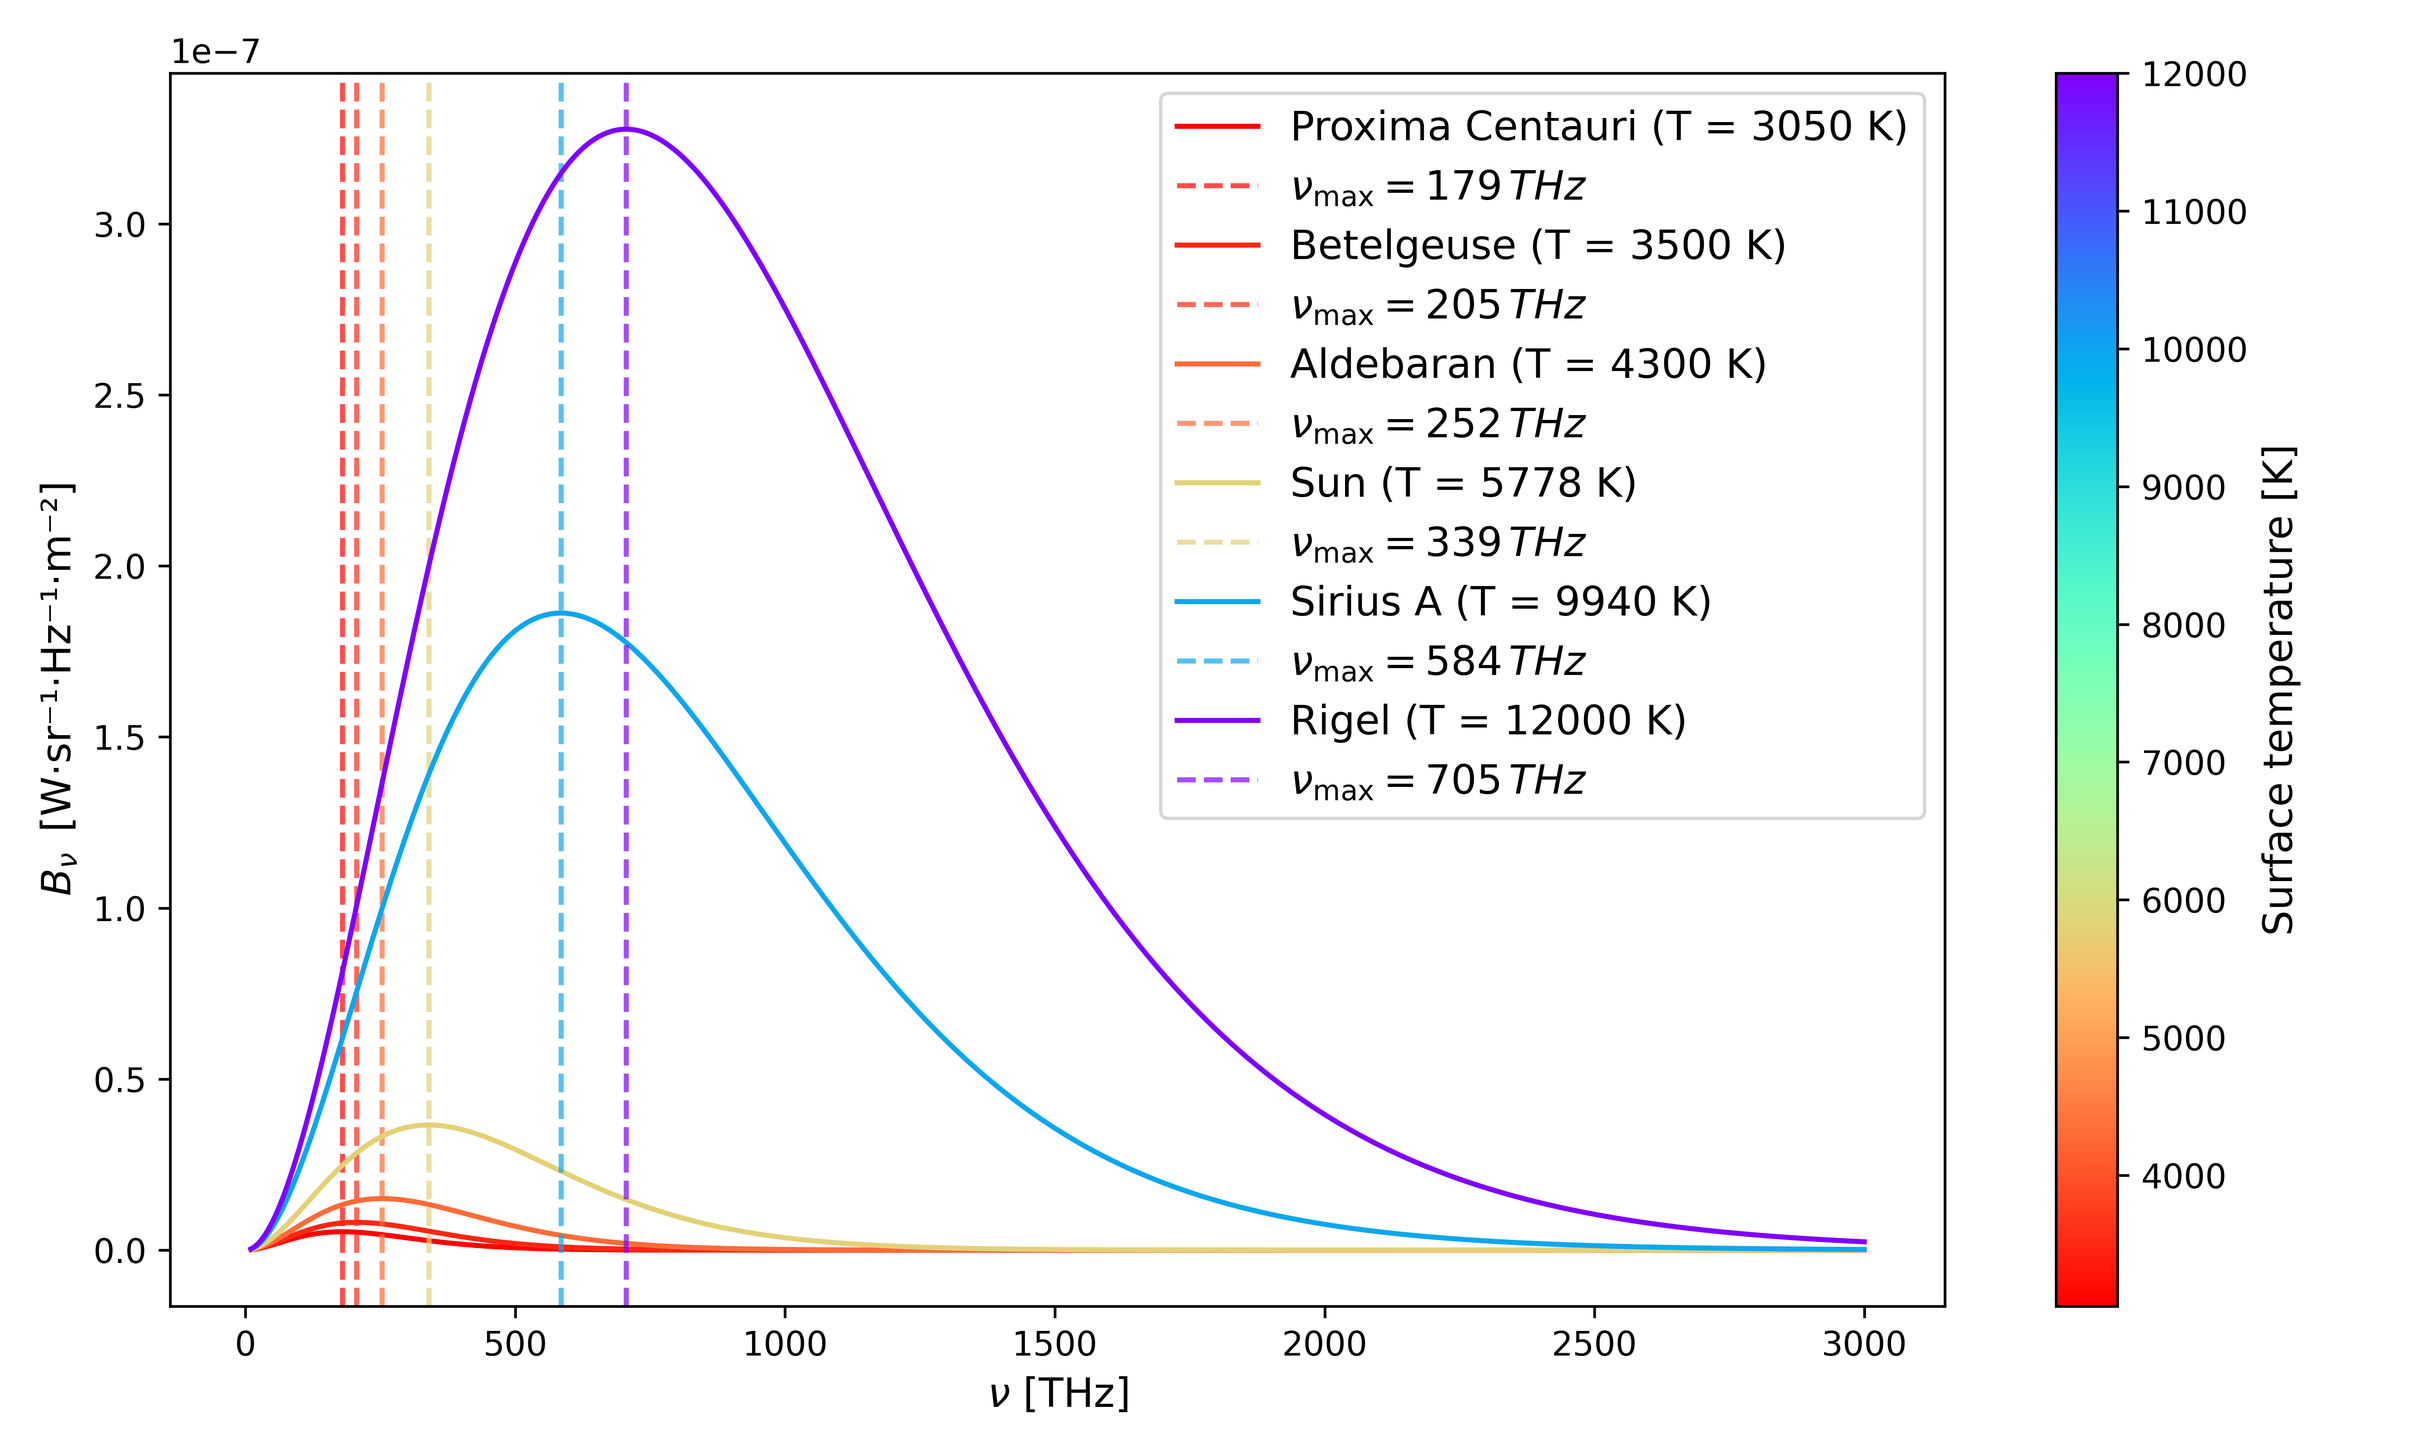
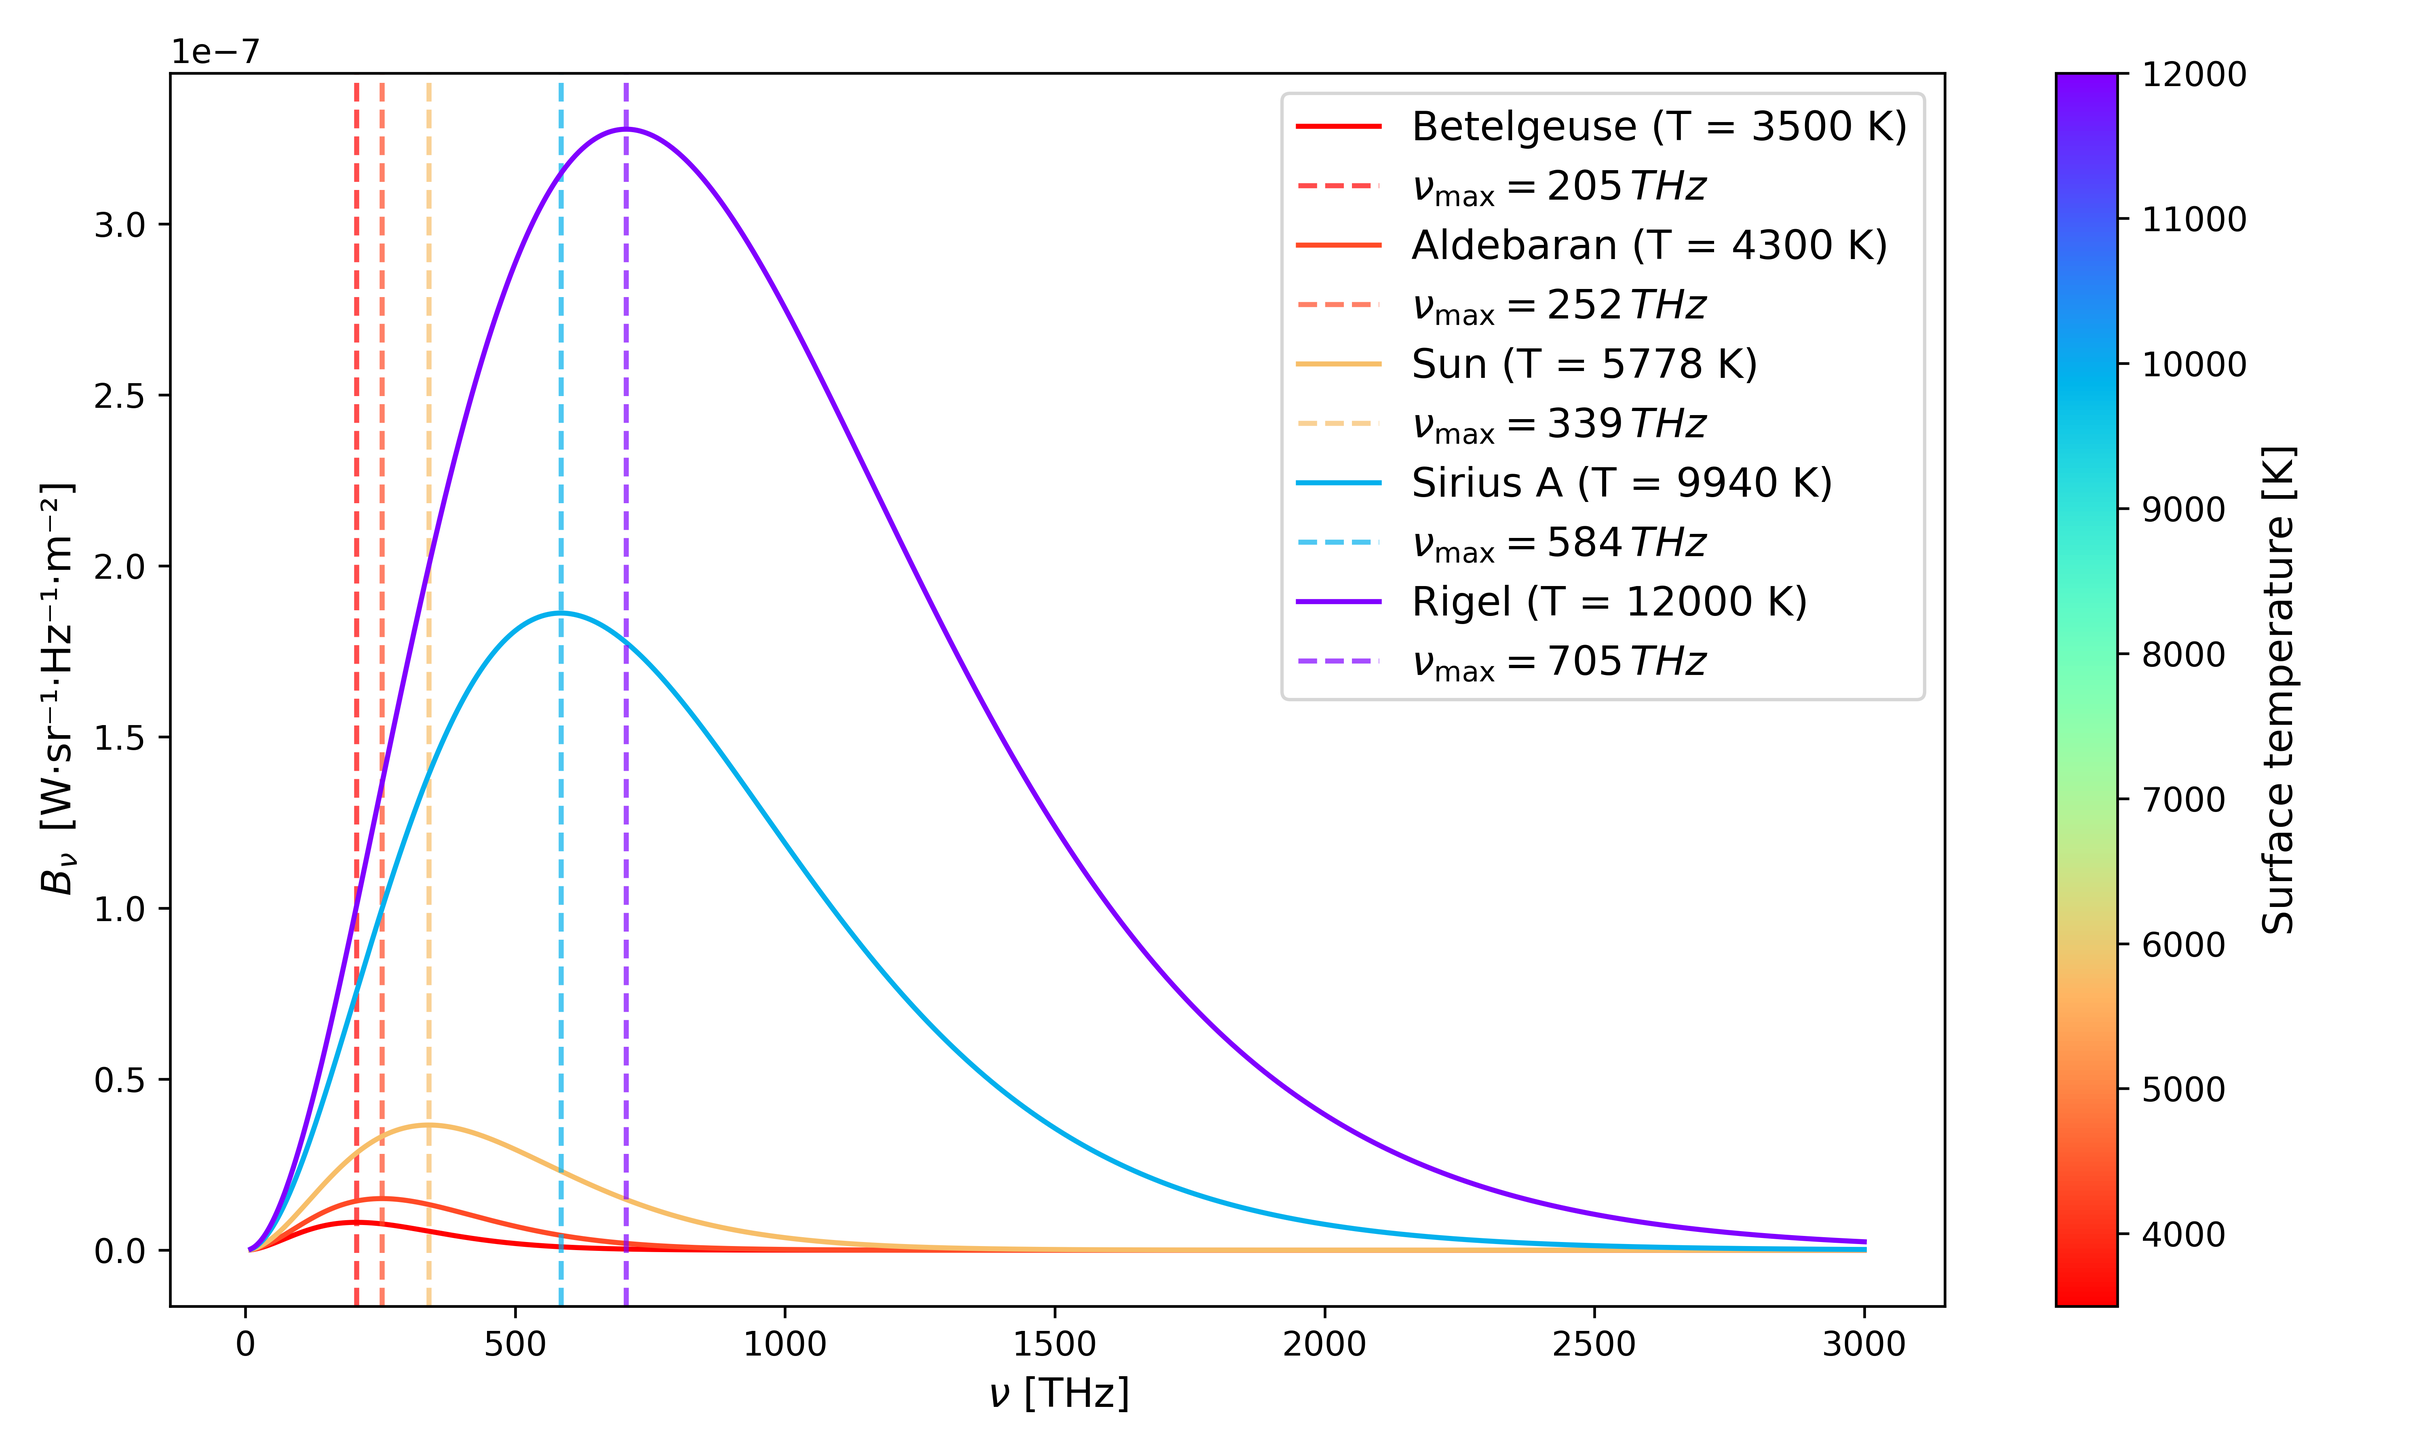
Update of star-obs : magnitudes

diff --git a/_cosmo/cosmo/codes/blackbody.py b/_cosmo/cosmo/codes/blackbody.py
@@ -30,7 +30,6 @@ nu = np.linspace(1e13, 3e15, 1000)
 
 # list of surface temperatures for some stars:
 star_Ts = {
-    "Proxima Centauri": 3050,
     "Betelgeuse": 3500,
     "Aldebaran": 4300,
     "Sun": 5778,

diff --git a/_cosmo/cosmo/astro-obs.md b/_cosmo/cosmo/astro-obs.md
@@ -7,16 +7,17 @@ nav_order: 1
 
 # Observing the stars
 
-![image](../images/potw1631a.jpg){: width="80%"}
+![image](../images/stellarium.png){: width="100%"}
 
-*The NGC 4833 globular cluster as seen by Hubble. Credit: [ESA/Hubble and NASA](https://esahubble.org/images/potw1631a/)*
+*Winter night sky in Europe and its constellations simulated using the [Stellarium](https://stellarium.org) software 
+(To reproduce use the following coordinates: Earth (48.8582,2.3387), 2025-01-05 21:45:23 UTC+01:00).*
 
-Picture a clear night sky in the countryside. Stars appear as a myriad of shining points covering the whole sky. How could they be distinguished?
+Picture a clear night sky in the countryside, or even better, have a look outside at night! If you are located in the northern hemisphere in winter, you might be able to see a sky very similar to the one represented in the picture above, with some emblematic constellations as Orion, Canis Major, Gemini and Taurus. Stars appear as a myriad of shining points covering the whole sky. How could they be distinguished?
 Sure, they are not all located at the same point of the sky, but that does not tell us anything about their physical properties. What else?
 
-One obvious characteristic comes to mind: their brightness! Indeed, all the stars do not appear as bright. Now what can the brightness of a star teach us? If a star is very bright, it can be for two reasons: either it is intrinsically very bright, because it is big and/or powerful, or because it is very close to us. The brightness of stars thus contain entangled information about both their luminosity and their distance.
+One obvious characteristic comes to mind: their brightness! Indeed, all the stars do not appear as bright. For example, you might notice that Sirius appears as much brighter than all the other stars around. It is actually the brightest star visible from the Northern hemisphere!  Now what can the brightness of a star teach us? If a star is very bright, it can be for two reasons: either it is intrinsically very bright, because it is big and/or powerful, or because it is very close to us. The brightness of stars thus contain entangled information about both their luminosity and their distance.
 
-Another property distinguishes the stars: their color. Indeed, even if it's not always easy to see, stars do not have the same colors. With a careful eye, it is possible to note that some appear as red, some blue and some more yellow. Now what could this possibly tell us? It turns out that the color of a star is directly related to its temperature, as we will further discuss below.
+Another property distinguishes the stars: their color. Indeed, even if it's not always easy to see, stars do not have the same colors. With a careful eye, you will notice that Betelgeuse and Aldebaran are clearly red, while Rigel is light blue. Now how to quantify this color, and what could we possibly infer from it? It turns out that the color of a star is directly related to its temperature, as we will further discuss below.
 
 These two measurable characteristics of stars are fundamental, as temperature and brightness can be ultimately linked with two physical properties of a star: its mass and the stage of its evolution.
 
@@ -62,15 +63,15 @@ Writing $x=\frac{h\nu}{k_bT}$ and setting this equation to zero, one obtains
 
 $$ 3(e^{x}-1)-xe^x=0 $$
 
-This equation is tricky to solve and requires to use the involved concept of "Lambert's W-functions" noted $W_0(z)$ (for the principal mode).
-
+This equation is tricky to solve and requires to use the involved concept of "Lambert's W-functions" noted $W_0(z)$ (for the principal mode). For simplicity, we will admit that the $x$ solving this equation is given by
+ 
 $$\frac{h\nu_{\rm max}}{k_bT}=3+ W_0(-3e^{-3})$$
 
-Thankfully, this can be computed numerically using scipy's function "lambertw".
+Thankfully, this can be computed numerically using scipy's function "lambertw". This (check the joined python code) allows us to obtain the value of $b\simeq 0.0588$ THz.K$^{-1}$ for Wien's constant.
 
 </details>
 
-In the above figure, we have computed the blackbody spectrum of different iconic stars. You can easily spot some of these stars in the night sky, with the help of softwares as [Stellarium](https://stellarium.org). We can clearly see that, the hotter the star, the more energy it emits (i.e. the bigger the peak of the curve). Furthermore, the hotter the star, the more blue its spectra is i.e. the more it is shifted to the right in frequency space (remember that higher frequencies mean shorter wavelengths). This figure allow us to verify the validity of Wien's law. We also note that our Sun is an "average" star, which is not so bright compared to other bluer (and bigger) stars as Rigel.
+In the above figure, we have computed the blackbody spectrum of different iconic stars of the winter night sky.  We can clearly see that, the hotter the star, the more energy it emits (i.e. the bigger the peak of the curve). Furthermore, the hotter the star, the more blue its spectra is i.e. the more it is shifted to the right in frequency space (remember that higher frequencies mean shorter wavelengths). This figure allow us to verify the validity of Wien's law. We also note that our Sun is an "average" star, which is not so bright compared to other bluer (and bigger) stars as Rigel. We also find back the colors observable with the naked eye : red for Betelgeuse and Aldebaran and blue for Sirius and Rigel.
 
 From the blackbody law, we can also infer a link between the intrinsic luminosity of the star $L$ -- that is the total energy the star radiates in space per unit of time -- and its size (radius) $R$ and temperature $T$ as
 
@@ -101,9 +102,9 @@ $$\int \text{d}S = 4\pi R^2 $$
  
 The solid angle integral is 
 
-$$\int \cos(\theta)\text{d}\Omega = \int_0^{2\pi}\int_0^{\pi/2} \cos(\theta) \sin(\theta)\d\varphi \d \theta=\pi $$
+$$\int \cos(\theta)\text{d}\Omega = \int_0^{2\pi}\int_0^{\pi/2} \cos(\theta) \sin(\theta)\text{d}\varphi \text{d} \theta=\pi $$
 
-It takes this form with an additional $\cos(\theta)$ because of Lambert's cosine law for the blackbody emission, saying that the intensity is smaller when looking the surface at an angle. We integrate only over the half sphere as we are considering here the emission of an infinitesimal element of surface around itself.  
+It takes this form with an additional $\cos(\theta)$ because of Lambert's cosine law for the blackbody emission, saying that the intensity is smaller when looking the surface at an angle. We will have to admit this law here for simplicity. We integrate only over the half sphere as we are considering here the emission of an infinitesimal element of surface around itself.  
  
 Now we must compute the final (and hardest) integral
 
@@ -113,33 +114,89 @@ Posing $x=\frac{h\nu}{k_b T}$ and thus $\text{d}x=\frac{h}{k_b T}\text{d}\nu$, t
 
 $$ \int B_\nu(T)\text{d}\nu = \frac{2h}{c^2}\left(\frac{k_b T}{h}\right)^4\int_0^\infty \frac{x^3}{e^{x}-1} \text{d}x$$
 
-The integral is the Riemann zeta function and can be shown to be equal to $\frac{\pi^4}{15}$.
+The integral is the Riemann zeta function and can be shown to be equal to $\frac{\pi^4}{15}$. We will also admit this last result here.
+
+Combining the three integrals we finally obtain as desired 
+
+$$L =  \frac{2\pi^5k_B^4}{15h^3c^2} 4\pi R^2 T^4$$
 
 </details>
 
+## Distance and luminosity
+
+As we said above, a star is characterized by its intrinsic luminosity $L$, which is how much energy it is releasing into space per unit of time.
+
+$$ F = \frac{L}{4\pi d^2}$$
+
+You will recognize here the surface of a sphere $4\pi d^2$, which means that while the radiation of a star is emitted into space, the total energy emitted is diluted -- and equally distributed -- over a sphere of radius $d$ centered on the star.
+Hence, as stated earlier, the brightness of a star is indeed linked to its radius, its temperature as well as it's distance to us
+
+$$ F = \frac{4\pi R^2 \sigma T^4}{4\pi d^2} + C$$
+
+The distance $d$ here is called the 'luminosity distance'. It can be estimated using the *parallax* method. In practice this concept can not be used for objects too far from us. For distances on larger (cosmological) scales, have a look [here](../distances/).
+
 ## Brightness: Magnitudes
 
-The brightness of a star, as seen in the sky, is called its *apparent magnitude* $m$. It is defined as
+The brightness of a star, as seen in the sky, is quantified by its *apparent magnitude* $m$. $m$ is a unitless number defined as
 
-$$m = -2.5 \log\left(\frac{F}{F_0}\right)$$
+$$m = -2.5 \log_{10}\left(F\right) + m_0$$
 
-where $F$ is the received flux of the star.
+where $F$ is the received flux of the star that is its luminosity as measured on Earth. $m_0$ is the arbitrary magnitude $0$ which defines the origin of the magnitude system.
+The use of a logarithm function here is to match the sensitivity of the human eye.
+The brighter the star, the more negative will be $m$.
 
-*absolute magnitude* $M$
+The *absolute magnitude* $M$ is its apparent magnitude observed at a distance of 10 parsecs, that is
+
+$$M = -2.5 \log_{10}\left(\frac{L}{4\pi (10 \text{ pc})^2}\right) + m_0$$
+
+In the table below, you can find the values of $m$ and $M$ for our iconic stars:
+
+| Stars | apparent magnitude $m$ | absolute magnitude $M$|
+|----------|:-------------:|------:|
+| Sun |  −27 | 4,83 |
+| Sirius |    −1   |   1,43 |
+| Aldebaran | +0,87  | -0,641|
+| Rigel | 0,12 | -7,84
+| Betelgeuse | 0,58 | -5,85 |
+| Naked eye limit | 6 |  |
+| Hubble telescope limit | 31.5 |  |
+
+We see that the Sun, which is obviously the brightest star visible from Earth (during the day!!!), has a greatly negative magnitude of -27. However, its absolute magnitude is of 4.83, which is rather high, making it the least "absolutely" bright star of the table!
+
+It can also be useful to define the distance modulus, which is the difference between the absolute and apparent magnitude:
 
 $$ \mu = M-m$$
 
-## Infering the distances
+It is a useful quantity as it can be related to the distance as
 
-A star is characterized by its intrinsic luminosity $L$, which is how much energy it is releasing into space per unit of time.
+$$\mu = 5\log_{10}(d/\text{pc}) - 5$$
 
-$$ L_d = \frac{L}{4\pi d^2}$$
+**Exercice: proove this!**
+<details>
+  <summary>Solution</summary>
 
-Hence, as stated earlier, the brightness of a star is indeed linked to its radius, its temperature as well as it's distance to us
+Remember, as always, the usual log properties: $\log_{10}(a^b)=b\log_{10}(a)$, $\log_{10}(a\times b)=\log_{10}(a)+\log_{10}(b)$ and $\log_{10}(a/b)=\log_{10}(a)-\log_{10}(b)$. Note also that $\log_{10}(10)=1$.
 
-$$ L_d = \frac{4\pi R^2 \sigma T^4}{4\pi d^2} + C$$
+From these properties:
+$$ \mu = M-m $$
+$$ = -2.5 \log_{10}\left(\frac{L}{4\pi d^2}\right) - 2.5 \log_{10}\left(\frac{L}{4\pi (10 \text{ pc})^2}\right)$$
+$$= -2.5 \log_{10}\left(\frac{(10 \text{ pc})^2}{d^2}\right) $$
+$$= -5 \log_{10}\left(\frac{(10 \text{ pc})}{d}\right) $$
+$$= 5 \log_{10}\left(\frac{d}{(10 \text{ pc})}\right) $$
+$$5\left( \log_{10}\left(d\right)-\log_{10}\left(10\right) \right) $$
+$$5\log_{10}\left(d\right)-5$$
 
-For distances on larger (cosmological) scales, have a look [here](../distances/).
+</details>
+
+## Color: B-V
+
+Now, trickier question: how to quantify the observed color of a star?
+
+The flux $F$ is dependent on frequency, such that $F=\int_{0}^\infty F_\nu \text{d}\nu$.
+
+The $B-V$ magnitude.
+
+$$m_B - m_V $$
 
 
 ## The Hertzprung-Russel diagramms

diff --git a/_cosmo/cosmo/stars-form.md b/_cosmo/cosmo/stars-form.md
@@ -7,8 +7,10 @@ nav_order: 1
 
 # The birth of stars 
 
-
 By trying to answer the vast question "what is a star?", we will apply most of the things we have learn in our physics lectures in an exciting context. We will hence discover one of the multiple reasons why astrophysics is so exciting : it involves many different branches of physics and put them in a cosmic perspective! If you don't master yet all of the concepts here, but are excited about astrophysics, you can still try to follow these notes. Hopefully, it should give you motivation to dig deeper the other lectures. 
+
+
+There is much more in the sky than what your eyes can see! Have a look for exemple [here](https://volskiy.smugmug.com/Nebulas/i-8dZ6DdL/A) or [here](https://apod.nasa.gov/apod/ap190821.html), to have an idea of what the constellation of Orion -- discussed in the [previous lesson](../astro-obs) -- would look like if your eyes were able to collect photons like a photo camera can. Space is thus full of invisible stuffs! Among these stuffs are interstellar clouds, made mostly of gas and a bit $~1\%$ of dust grains. These clouds often appear red on the photographies due to a characteristic emission of Hydrogen when they are heated by nearby stars.
 
 
 ## Jeans mass

diff --git a/_cosmo/cosmo.md b/_cosmo/cosmo.md
@@ -15,6 +15,7 @@ You will find here some fun python applications to physics with some detailled e
 - Compact objects
 - Black holes, part I
 - [Kepler laws](../../meca/Newton/Kepler/) (copied from the mechanics class)
+- Nebulae and cosmic dust
 
 # Special and general relativity
 
